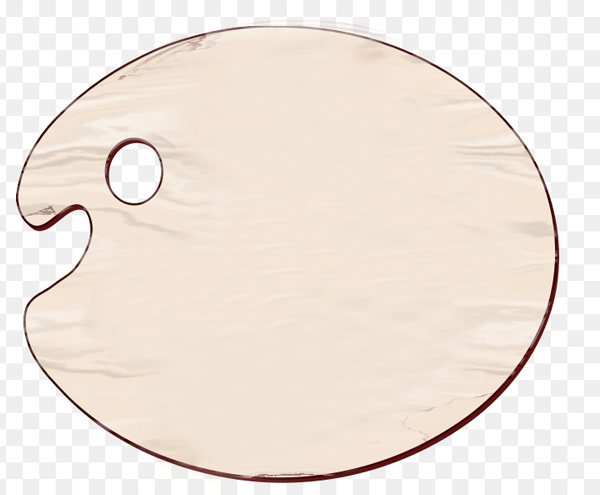
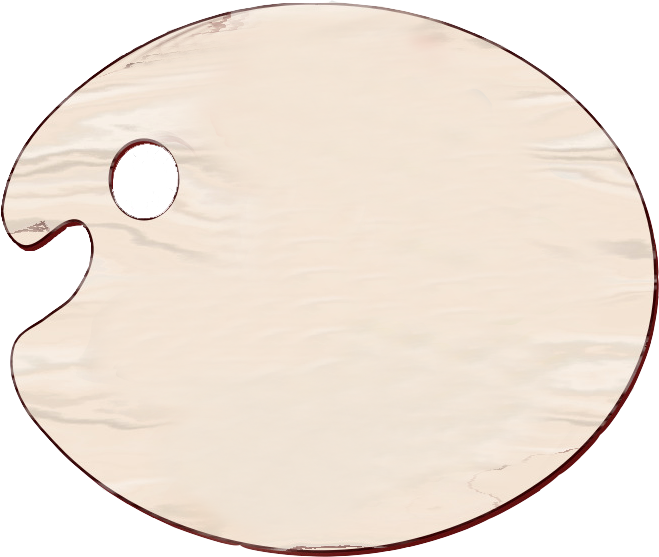
Adding palette to css

Changed region(s): [[0.0, 0.0, 1.0, 1.0]]

diff --git a/css/PixelPainter.css b/css/PixelPainter.css
@@ -3,12 +3,14 @@
     /* cursor: url("/assets/paintbrush_icon.png"), auto; */
 
 #colors {
-    border: 1px solid black;
+    /* border: 1px solid black; */
     height: 800px;
     width: 320px;
-    position: fixed;
+    position: absolute;
     padding-left: 5px;   
     padding-top: 5px;
+    top: 200px;
+    left: 250px;
 }
 
 
@@ -33,16 +35,22 @@
     margin-top: 10px;
 }
 
+#paletteImage {
+    height: 800px;
+    width: 800px;
+    z-index: -1;
+}
 
 #canvas {
     border: 1px solid black;
     height: 795px;
     width: 1050px;
-    position: fixed;
-    right: 5%;
+    position: absolute;
+    right: 20px;
     display: flex;
     flex-flow: row wrap;
     background-color: none;   
+    top: 50px;
 }
 
 .pixels {
@@ -52,7 +60,6 @@
     display: inline-block;
     /* flex-flow:wrap; */
     padding-right: 0%;
-    background-color: none;
     
 }
 

diff --git a/js/PixelPainter.js b/js/PixelPainter.js
@@ -13,10 +13,13 @@ const palette = [
 
 let paletteCollector = null;
 
-
+let paletteBackground = document.createElement('img');
+paletteBackground.id = "paletteImage";
+paletteBackground.src = "/assets/color_palette.png";
+document.body.appendChild(paletteBackground);
 
 // Container for the color swatches 
-var colorPalette = document.createElement('div');
+let colorPalette = document.createElement('div');
 colorPalette.id = 'colors';
 document.body.appendChild(colorPalette);
 
@@ -105,6 +108,8 @@ function clearCanvas() {
     let clearingPixels = document.getElementsByClassName('pixels');
     for (let i = 0; i < clearingPixels.length; i++) {
         clearingPixels[i].style.backgroundColor = null;
+        clearingPixels[i].style.borderColor = "grey";
+        document.body.style.cursor = "default";
     }
 }
 
